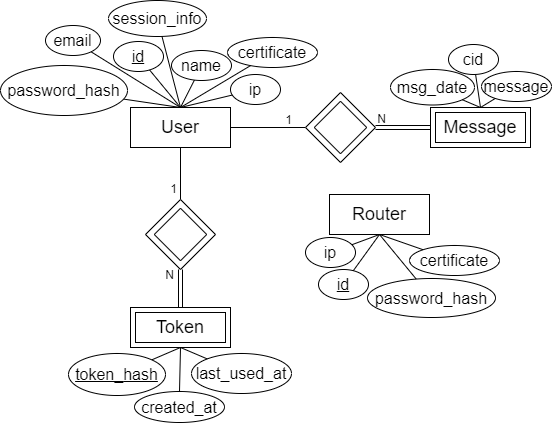
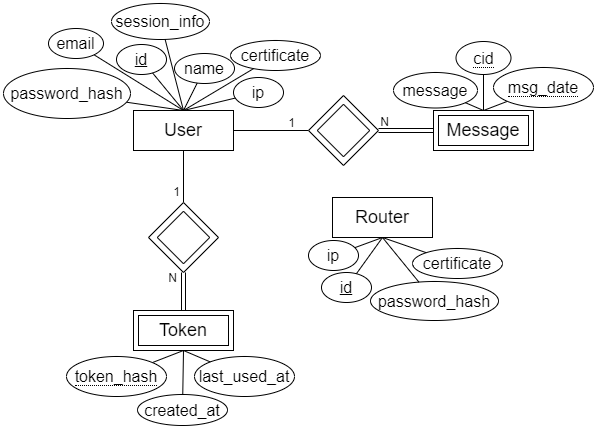
Updated README and ER diagram image

Changed region(s): [[0.0, 0.0, 1.0, 1.0], [0.4919, 0.4599, 0.8915, 0.7665]]

diff --git a/code/OnionRouter/OnionRouter/README.md b/code/OnionRouter/OnionRouter/README.md
@@ -42,10 +42,12 @@ In this is possibly to:
 * user authentication.
 
 For the last operation, the menu will only be shown when the user is authenticated. In this is possibly:
-* To add a contact;
+* show personal information;
+* to add a contact;
 * enter a conversation;
     * send a message;
-    * see previous messages (Not implement);
-    * see next messages (Not implement);
-* list contacts (Not implement);
+    * see previous messages;
+    * see next messages;
+    * leave conversation;
+* list contacts;
 * logout.

diff --git a/code/Api/README.md b/code/Api/README.md
@@ -133,7 +133,7 @@ Instead of the implementing multiple column mappers to allow the mapping of thos
 
 To run the application, make sure you have Docker Desktop installed, and execute the following command:
 ```bash
-docker-compose up
+docker compose up
 ```
 # Conclusion
 
